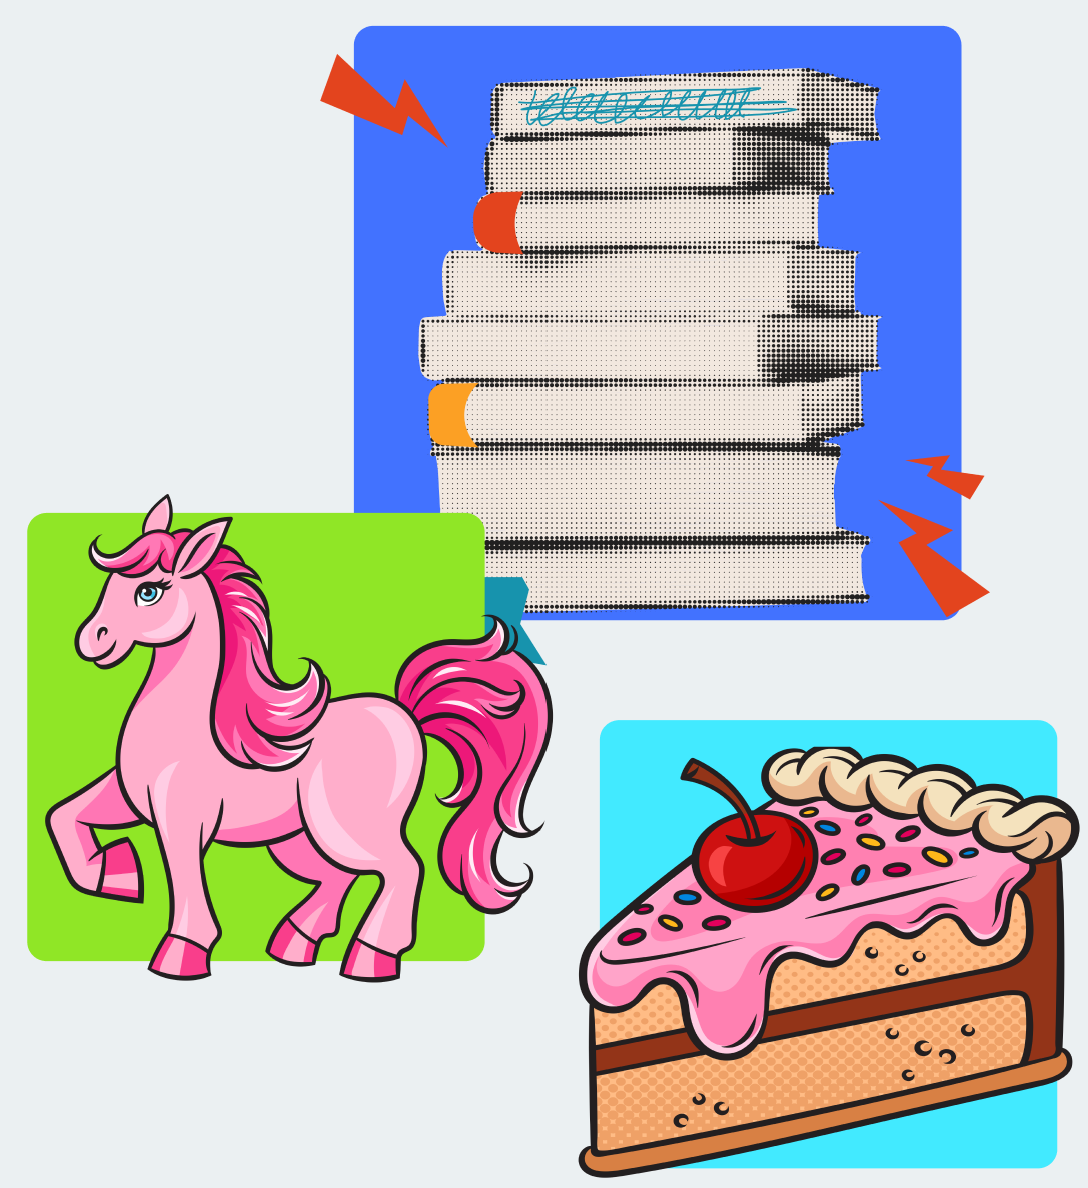
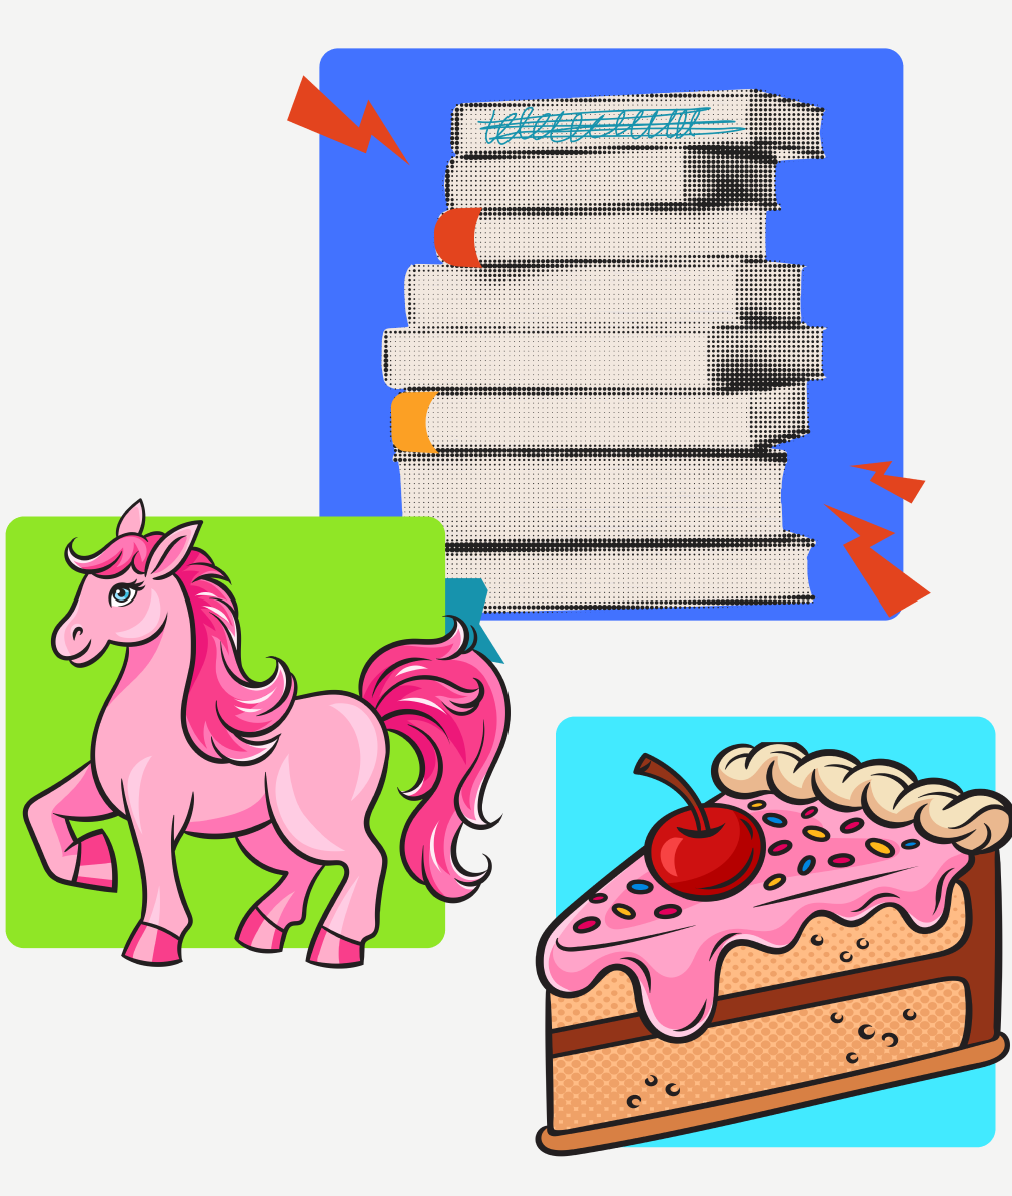
updated pictures to match new colors

diff --git a/site_demo/home.html b/site_demo/home.html
@@ -14,48 +14,32 @@
     <script>set_header("");</script>
 
     <main class="home_main">
-        <section class="home_header">
+        <section class="left">
             <h1>Welcome to MyDigiRoom!</h1>
             <h2>Here's the breakdown</h2>
+            <div class ="info-block">
+                <img src="images/house_icon.png" alt="House Icon">
+                <p>This is where you’ll design your room! In the My Room Page, simply click on the edit button and explore how you can place and customize your objects. </p>
+            </div>
+
+            <div class ="info-block">
+                <img src="images/globe_icon.png" alt="Globe Icon">
+                <p>Bored of customizing your own room? Check out some others! On the Explore Page, you can visit public rooms and interact with their objects. Here you’ll also see suggested friends based on your shared interests.</p>
+            </div>
+
+            <div class ="info-block">
+                <img src="images/smily_face.png" alt="">
+                <p>Keep up with your friends on the <span class="bold-word">Friends Page</span>! When you friend someone, their profile and room will show up here! Stay tuned to see if we add a messaging feature!</p>
+            </div>
+
+            <div class ="info-block">
+                <img src="images/person_icon.png" alt="">
+                <p>Here, in the Profile and Setting Pages, you can manage your account details and room visibility. </p>
             </div>
         </section>
 
-        <hr>
-
-        <!-- second section -->
-
-        <section class="info-home">
-            <h2>Tell your story</h2>
-            <div class="img-text-row">
-                <img src="images/book_pony_cake.png" alt="Home Image 1" class="home-image">
-                <p> Here's how your room works....
-                </p>
-            </div>
+        <section class="right">
+                <img src="images/book_pony_cake.png" alt="Decorations" class="right_images">
         </section>
-
-        <hr>
-
-        <!-- third section -->
-
-        <section class="info-home">
-            <h2>All About You</h2>
-            <div class="img-text-row">
-                <img src="images/guysmile.png" alt="Home Image 1" class="home-image">
-                <p> Lorem ipsum dolor sit amet, consectetur adipiscing
-                    elit, sed do eiusmod tempor incididunt ut labore et
-                    dolore magna aliqua...
-                </p>
-            </div>
-        </section>
-
-        <!-- call to action -->
-
-        <div class="call-to-action-home">
-            <h2>Your life, your interests<br>
-                in <em>one room.</em></h2>
-                <a href="myroom.html">
-                <button>Get started decorating!</button>
-                </a>
-        </div>
 
     </main>
